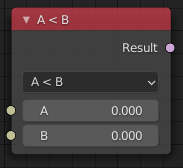
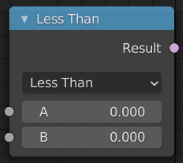
Geometry Node: Update Float Compare and Random Float nodes
Update Images for Float Compare and Random Float.

Change the Properties descriptions of Float compare to use English instead of Symbols (Less Tha instead of <). Add description of Eplison Input

git-svn-id: https://svn.blender.org/svnroot/bf-manual/trunk/blender_docs@7591 c4de1f47-6596-e411-a384-0024e86c2797

diff --git a/manual/modeling/modifiers/nodes/utilities/float_compare.rst b/manual/modeling/modifiers/nodes/utilities/float_compare.rst
@@ -18,23 +18,26 @@ Inputs
 
 A, B
    Standard float value input.
+Epsilon
+   This value is used as a threshold for still considering the two inputs as equal for the Equal and Not Equal operations,
+   
 
 
 Properties
 ==========
 
 Mode
-   A < B
+   Less Than
       True if A is smaller than B.
-   A <= B
+   Less Than or Equal
       True if A is smaller or equal than B.
-   A > B
+   Greater Than
       True if A is bigger than B.
-   A >= B
+   Greater Than or Equal
       True if A is bigger or equal than B.
-   A = B
+   Equal
       True if A and B are the same.
-   A != B
+   Not Equal
       True if A and B are different.
 
 
